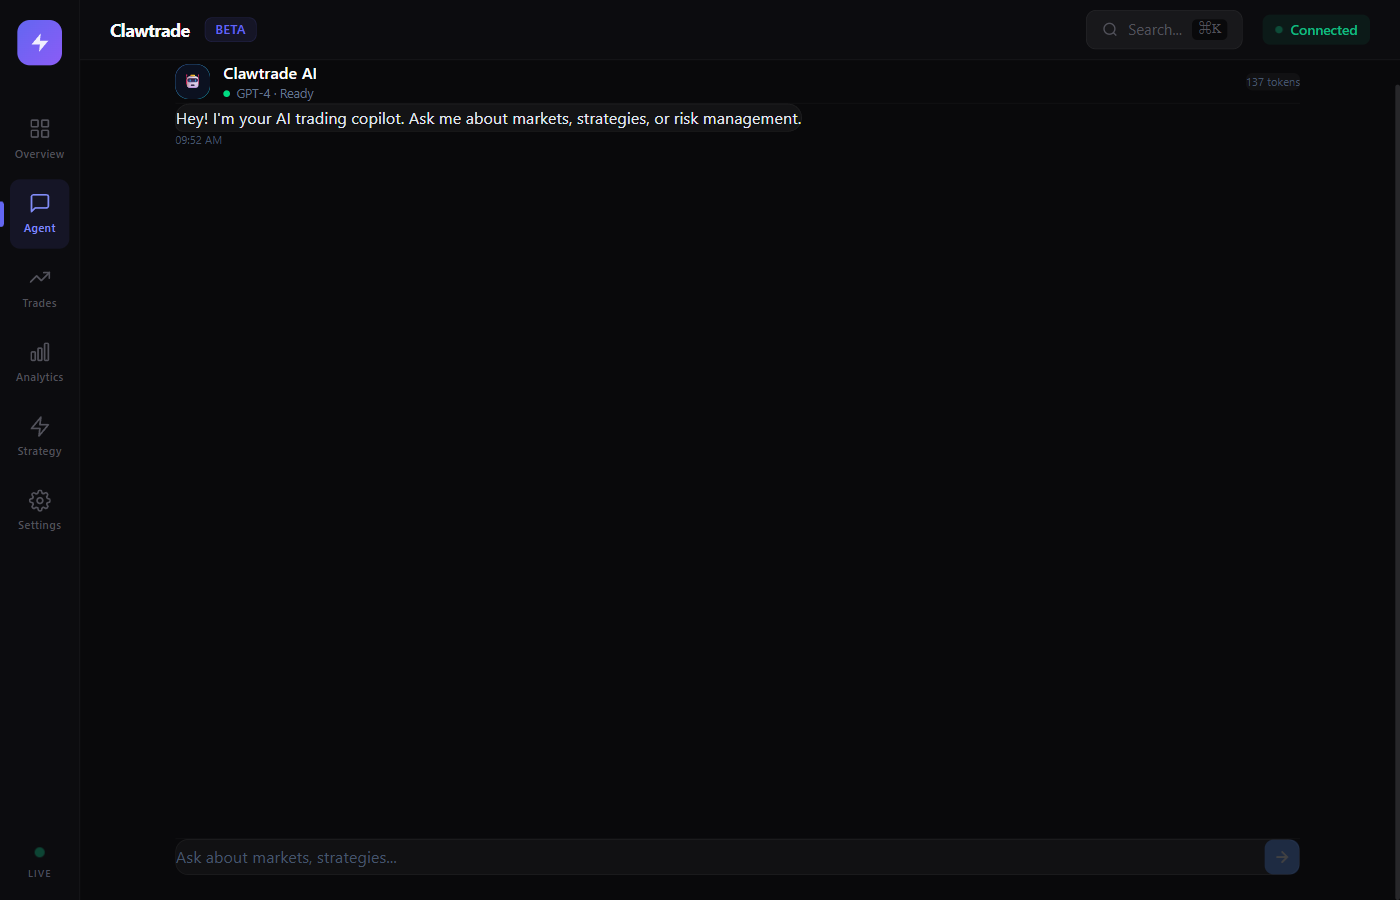
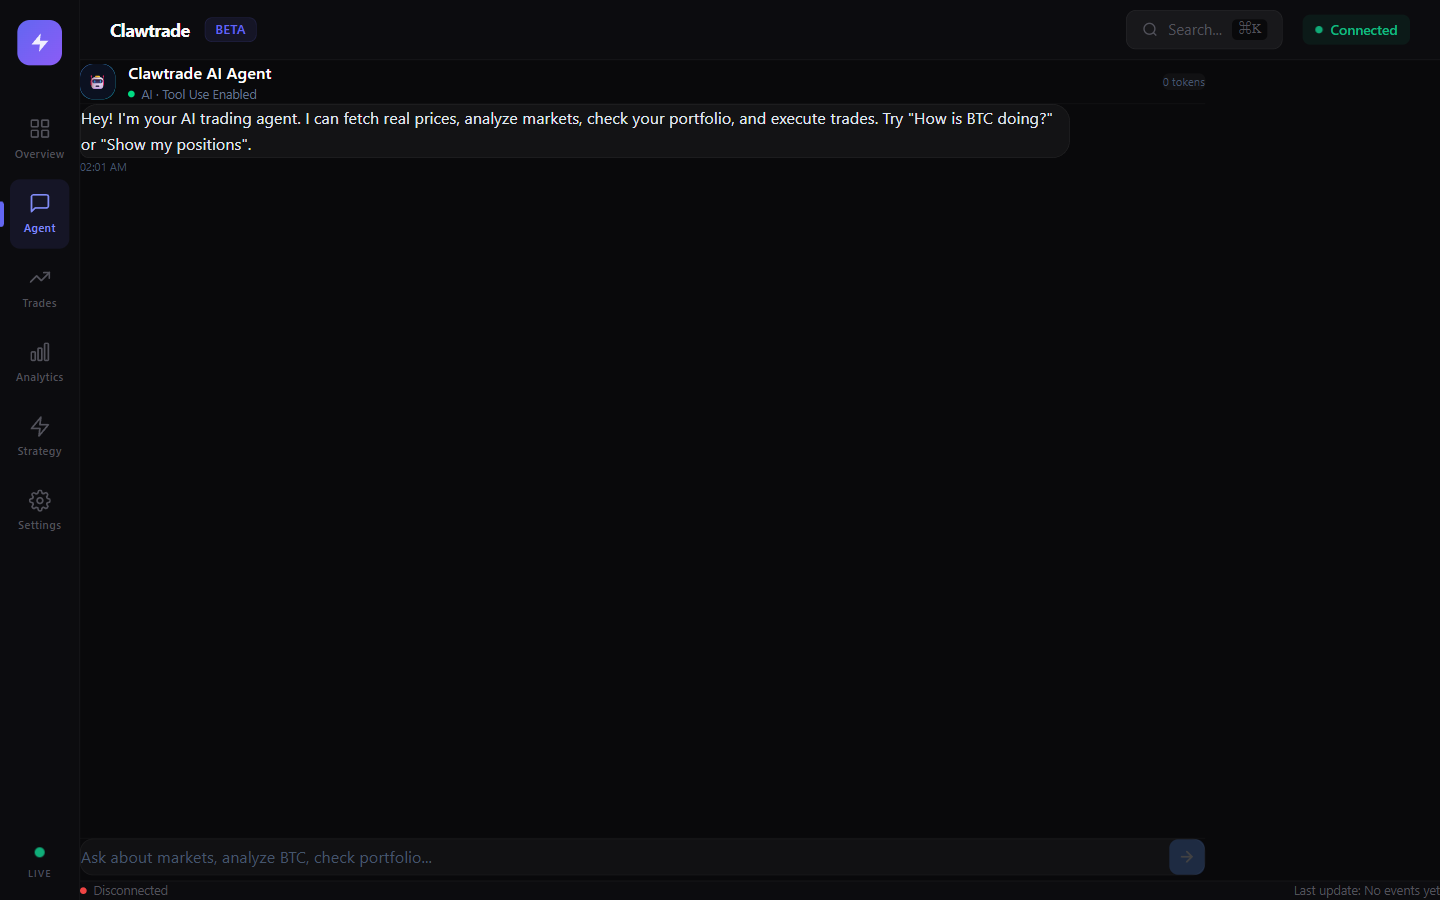
docs: update README with new dashboard screenshots and v0.11.0 features
Add backtesting engine, multi-exchange portfolio, and alerting system
docs. Update screenshots to match redesigned dashboard. Update tool
count (9→14), architecture diagram, config example, and project structure.

diff --git a/README.md b/README.md
@@ -10,6 +10,8 @@ Self-hosted, open-source. One platform for Binance, Bybit, OKX, MetaTrader 5, In
 
 ![Agent Chat](docs/screenshots/agent-chat.png)
 
+![Settings](docs/screenshots/settings.png)
+
 ---
 
 ## Quick Start
@@ -25,7 +27,7 @@ clawtrade init
 clawtrade serve
 ```
 
-Open **http://localhost:8899** for the web dashboard.
+Open **http://localhost:9090** for the web dashboard.
 
 ## Features
 
@@ -38,14 +40,44 @@ Open **http://localhost:8899** for the web dashboard.
 
 ### AI Agent (Tool Use)
 - **Real tool use** — Agent calls tools to fetch live data, not just chat
-- 9 built-in tools: `get_price`, `get_candles`, `analyze_market`, `get_balances`, `get_positions`, `risk_check`, `calculate_position_size`, `place_order`, `cancel_order`
+- 14 built-in tools: `get_price`, `get_candles`, `analyze_market`, `get_balances`, `get_positions`, `risk_check`, `calculate_position_size`, `place_order`, `cancel_order`, `get_open_orders`, `backtest`, `create_alert`, `list_alerts`, `delete_alert`
 - Context injection: system prompt includes live balances, positions, risk limits, trade history
 - Agent loop: LLM calls tools → executes → returns results → LLM responds with real data
 - Supports all 6 LLM providers with native tool use (Anthropic, OpenAI, DeepSeek, OpenRouter, Google Gemini, Ollama)
 - **MCP support** — Connect external MCP servers for custom tools (indicators, news, alerts)
-- 5 sub-agents: market scanner, risk manager, portfolio optimizer, news analyst, execution engine
+- 5 sub-agents: market analyst, devil's advocate, narrative tracker, reflection engine, correlation scanner
 - 5-layer memory system with learning from past trades
 - Configurable confidence thresholds and confirmation modes
+
+### Backtesting Engine
+- **Strategy backtesting** via agent chat — "Backtest RSI strategy on BTC/USDT 4h"
+- Built-in strategies: Price Action, SMC (Smart Money Concepts)
+- Custom expression rules: `"rsi < 30 AND close > sma_50"`
+- Multi-timeframe analysis (15m, 1h, 4h)
+- Results include: total return, win rate, max drawdown, Sharpe ratio, trade count
+- Historical candle data from connected exchanges
+
+### Multi-Exchange Portfolio
+- **Aggregated portfolio view** across all connected exchanges
+- Real-time price streaming via EventBus
+- Unified P&L tracking (unrealized + realized)
+- Asset allocation breakdown (Crypto, Forex, Stocks, DeFi)
+- Portfolio performance chart with S&P 500 / BTC benchmark comparison
+- Monthly returns heatmap and drawdown analysis
+
+### Alerting System
+- **Price alerts** — Above/below threshold on any symbol
+- **P&L alerts** — Portfolio-level profit/loss triggers
+- **Risk alerts** — Leverage, exposure, drawdown warnings
+- **Trade alerts** — Execution notifications
+- **System alerts** — Connection status, errors
+- **Custom expression alerts** — `"rsi < 30 AND close > sma_50"` with indicator evaluation
+- Rate limiting (configurable per-alert cooldown)
+- One-shot alerts (auto-disable after trigger)
+- **Telegram delivery** with formatted messages
+- **WebSocket delivery** for real-time dashboard updates
+- **Daily briefing** — Automated portfolio snapshot via Telegram at configured UTC hour
+- Manage alerts via agent chat: "Create alert when BTC drops below 60000"
 
 ### Risk Management
 - Pre-trade risk checks (position size, leverage, exposure limits)
@@ -56,17 +88,22 @@ Open **http://localhost:8899** for the web dashboard.
 ### Web Dashboard
 - **Live data** — All widgets connect to real exchange APIs with graceful fallback to demo mode
 - Real-time portfolio overview with P&L tracking
-- Candlestick charts with EMA overlay (LIVE/DEMO indicator)
-- Market overview with live crypto prices from connected exchanges
+- TradingView candlestick charts with technical indicators
+- Market overview with 13+ instruments (crypto, forex, stocks, indices)
 - Positions table across all exchanges with real-time P&L
-- Exchange status showing connected/ready state
-- Agent status and chat interface (real LLM integration)
-- Full settings panel (exchanges, risk, agent, notifications)
+- Portfolio performance vs benchmarks (S&P 500, BTC)
+- Risk analysis panel (Sharpe ratio, Sortino ratio, volatility, max drawdown)
+- Asset allocation donut chart
+- Monthly returns heatmap
+- Top movers (best/worst performers)
+- Agent chat interface with tool use visualization
+- Full settings panel (exchanges, risk, agent, notifications, general)
 
 ### Notifications
-- **Telegram** bot with trade alerts and portfolio commands
+- **Telegram** bot with trade alerts, portfolio commands, and daily briefings
 - **Discord** webhook notifications
 - Configurable alert types: trades, risk, P&L, system events
+- Rate limiting to prevent notification spam
 
 ### Security
 - AES-256-GCM encrypted credential vault
@@ -82,11 +119,11 @@ Open **http://localhost:8899** for the web dashboard.
 │              React + Vite + TypeScript            │
 ├─────────────────────────────────────────────────┤
 │                   API Server                     │
-│            REST + WebSocket + GraphQL             │
+│              REST + WebSocket + GraphQL           │
 ├──────────┬──────────┬──────────┬────────────────┤
-│ AI Agent │   Risk   │ Strategy │   Adapters      │
-│ + Memory │  Engine  │  Arena   │ ┌────────────┐ │
-│          │          │          │ │ Binance    │ │
+│ AI Agent │   Risk   │ Backtest │   Adapters      │
+│ + Memory │  Engine  │  Engine  │ ┌────────────┐ │
+│ + Alerts │          │          │ │ Binance    │ │
 │          │          │          │ │ Bybit      │ │
 │          │          │          │ │ OKX        │ │
 │          │          │          │ │ MT5        │ │
@@ -189,9 +226,9 @@ GET /api/v1/exchanges
 
 ### WebSocket
 ```
-ws://localhost:8899/ws
+ws://localhost:9090/ws
 ```
-Real-time price streaming from connected exchanges. Subscribe to event types: `market.*`, `trade.*`, `risk.*`
+Real-time streaming from connected exchanges. Event types: `market.*`, `trade.*`, `risk.*`, `portfolio.*`, `alert.*`, `system.*`
 
 ## Configuration
 
@@ -200,7 +237,7 @@ All config stored in `config/default.yaml`:
 ```yaml
 server:
   host: 127.0.0.1
-  port: 8899
+  port: 9090
 
 risk:
   max_risk_per_trade: 0.02    # 2%
@@ -233,6 +270,14 @@ notifications:
     enabled: false
     token: ""
     chat_id: ""
+  alerts:
+    trade_executed: true
+    risk_alert: true
+    pnl_update: false
+    system_alert: true
+    rate_limit_minutes: 5
+    daily_briefing: false
+    briefing_hour_utc: 8
 ```
 
 MCP servers expose custom tools to the AI agent via the [Model Context Protocol](https://modelcontextprotocol.io). Any MCP-compatible server works — the agent discovers tools automatically at startup.
@@ -266,14 +311,18 @@ make run
 ├── cmd/clawtrade/     Go CLI entry point
 ├── internal/
 │   ├── adapter/       Exchange adapters (Binance, Bybit, MT5, etc.)
+│   ├── agent/         AI agent, tool registry, sub-agents
+│   ├── alert/         Alerting system (manager, dispatcher, briefing)
 │   ├── api/           HTTP server, WebSocket, GraphQL
+│   ├── backtest/      Backtesting engine, strategies, indicators
 │   ├── bot/           Telegram bot
 │   ├── config/        Configuration management
-│   ├── database/      SQLite storage
+│   ├── database/      SQLite storage and migrations
 │   ├── engine/        Event bus
 │   ├── memory/        AI 5-layer memory system
 │   ├── risk/          Risk engine, circuit breaker, monitoring
 │   ├── security/      Vault, audit, permissions
+│   ├── streaming/     Real-time price streaming
 │   └── strategy/      Strategy arena and optimizer
 ├── web/               React dashboard
 ├── cli/               TypeScript CLI
